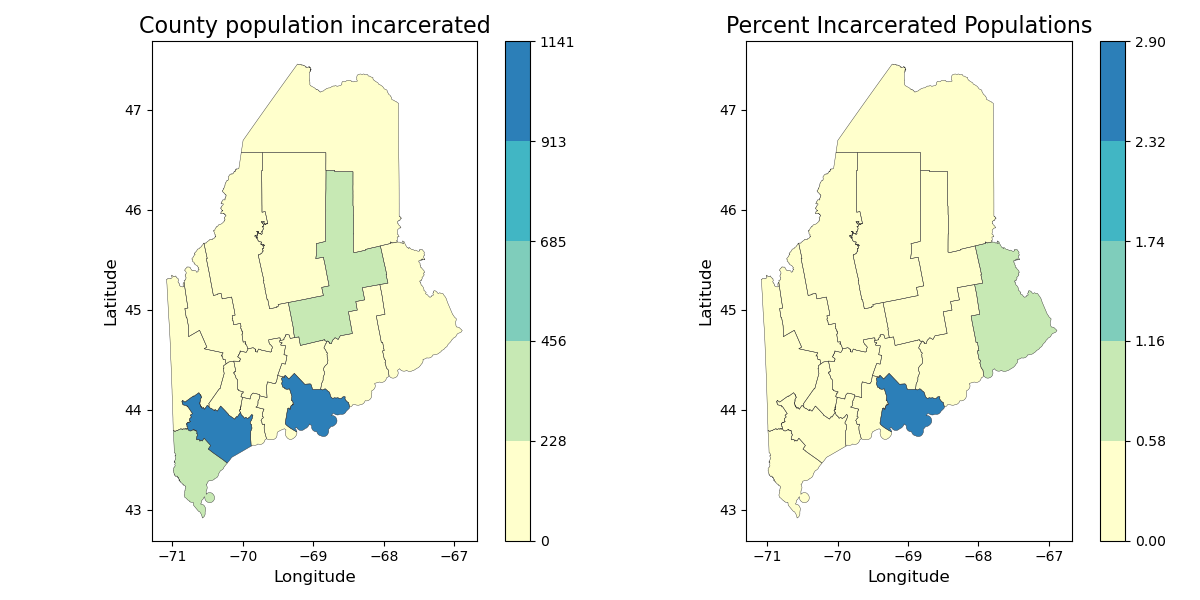
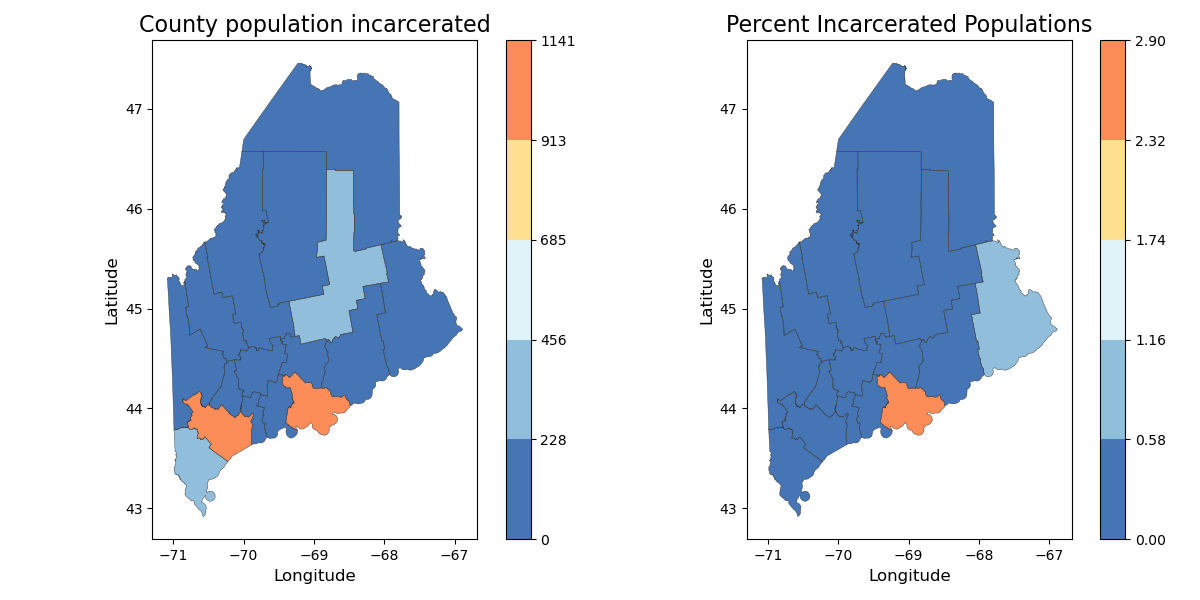
Minor updates
- Updated figs w/ new color scheme
- Updated README
- Deleted methodology.md

diff --git a/src/make_plots.py b/src/make_plots.py
@@ -76,7 +76,7 @@ def make_plot(gpd_obj, plot_obj):
     fig.savefig(f'{figs_dir}/{plot_filename}.png')
 
 # Read geojson file into a geopandas object
-gpd_obj = gpd.read_file('/home/darbvt/broadband-4/docs/tracts.json')
+gpd_obj = gpd.read_file('docs/tracts.json')
 
 # Iterate through plot lists and call make_plot to create pngs and save each
 for plot_obj in plot_list:

diff --git a/README.md b/README.md
@@ -8,6 +8,7 @@ This repository takes data about Maine populations and plots them based on censu
     * [Tract Plots](#tract-plots)
     * [County Plots](#county-plots)
 * [Step 3: Reproducing the County Bar Graphs](#step-3-reproducing-the-county-bar-graphs)
+    * [Bar graph story](https://github.com/ds5010/broadband-4/blob/main/bargraph_story.md)
 * [Contributors](#contributors)
 
 ## Instructions for Use
